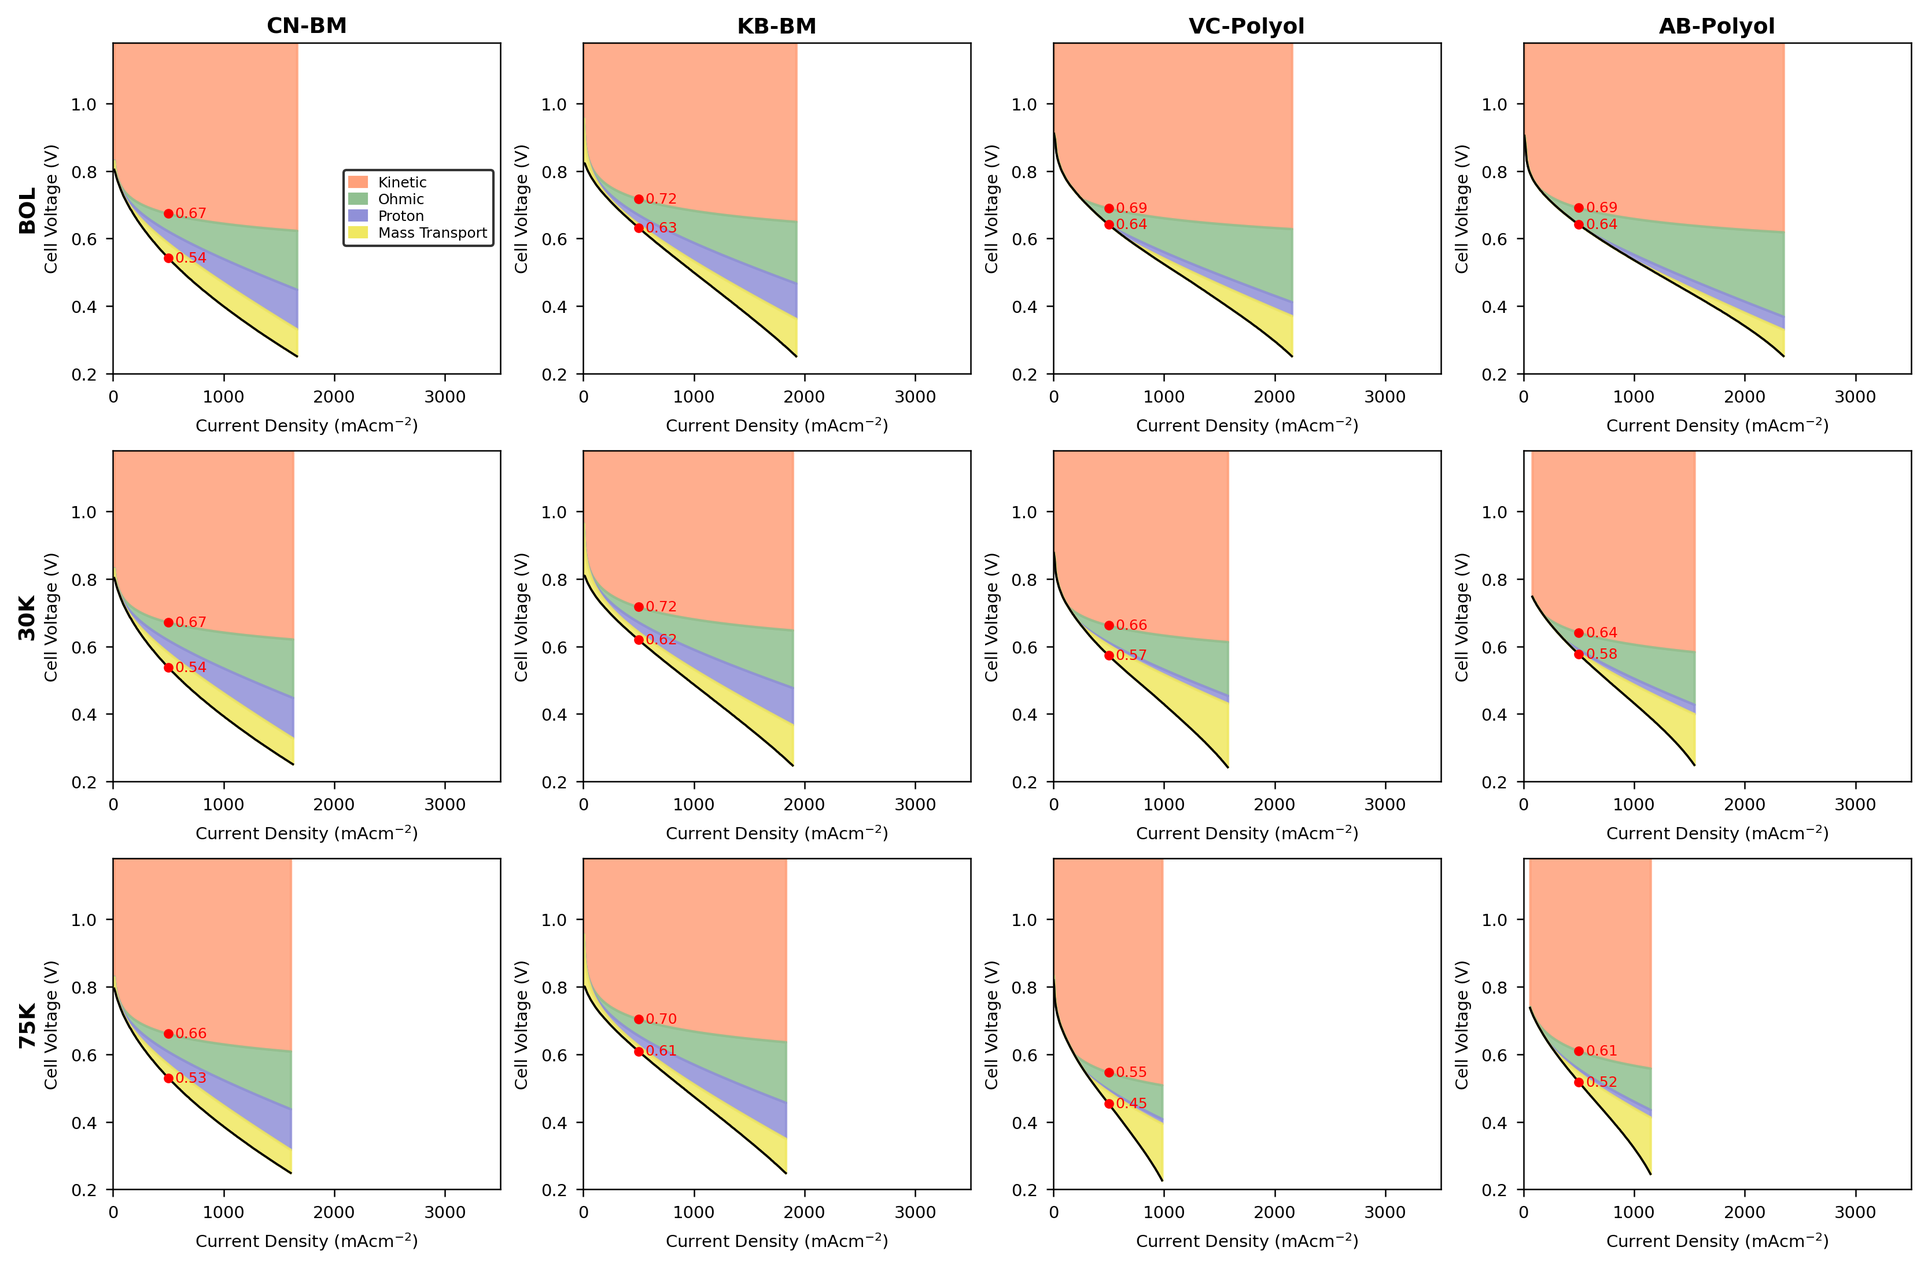
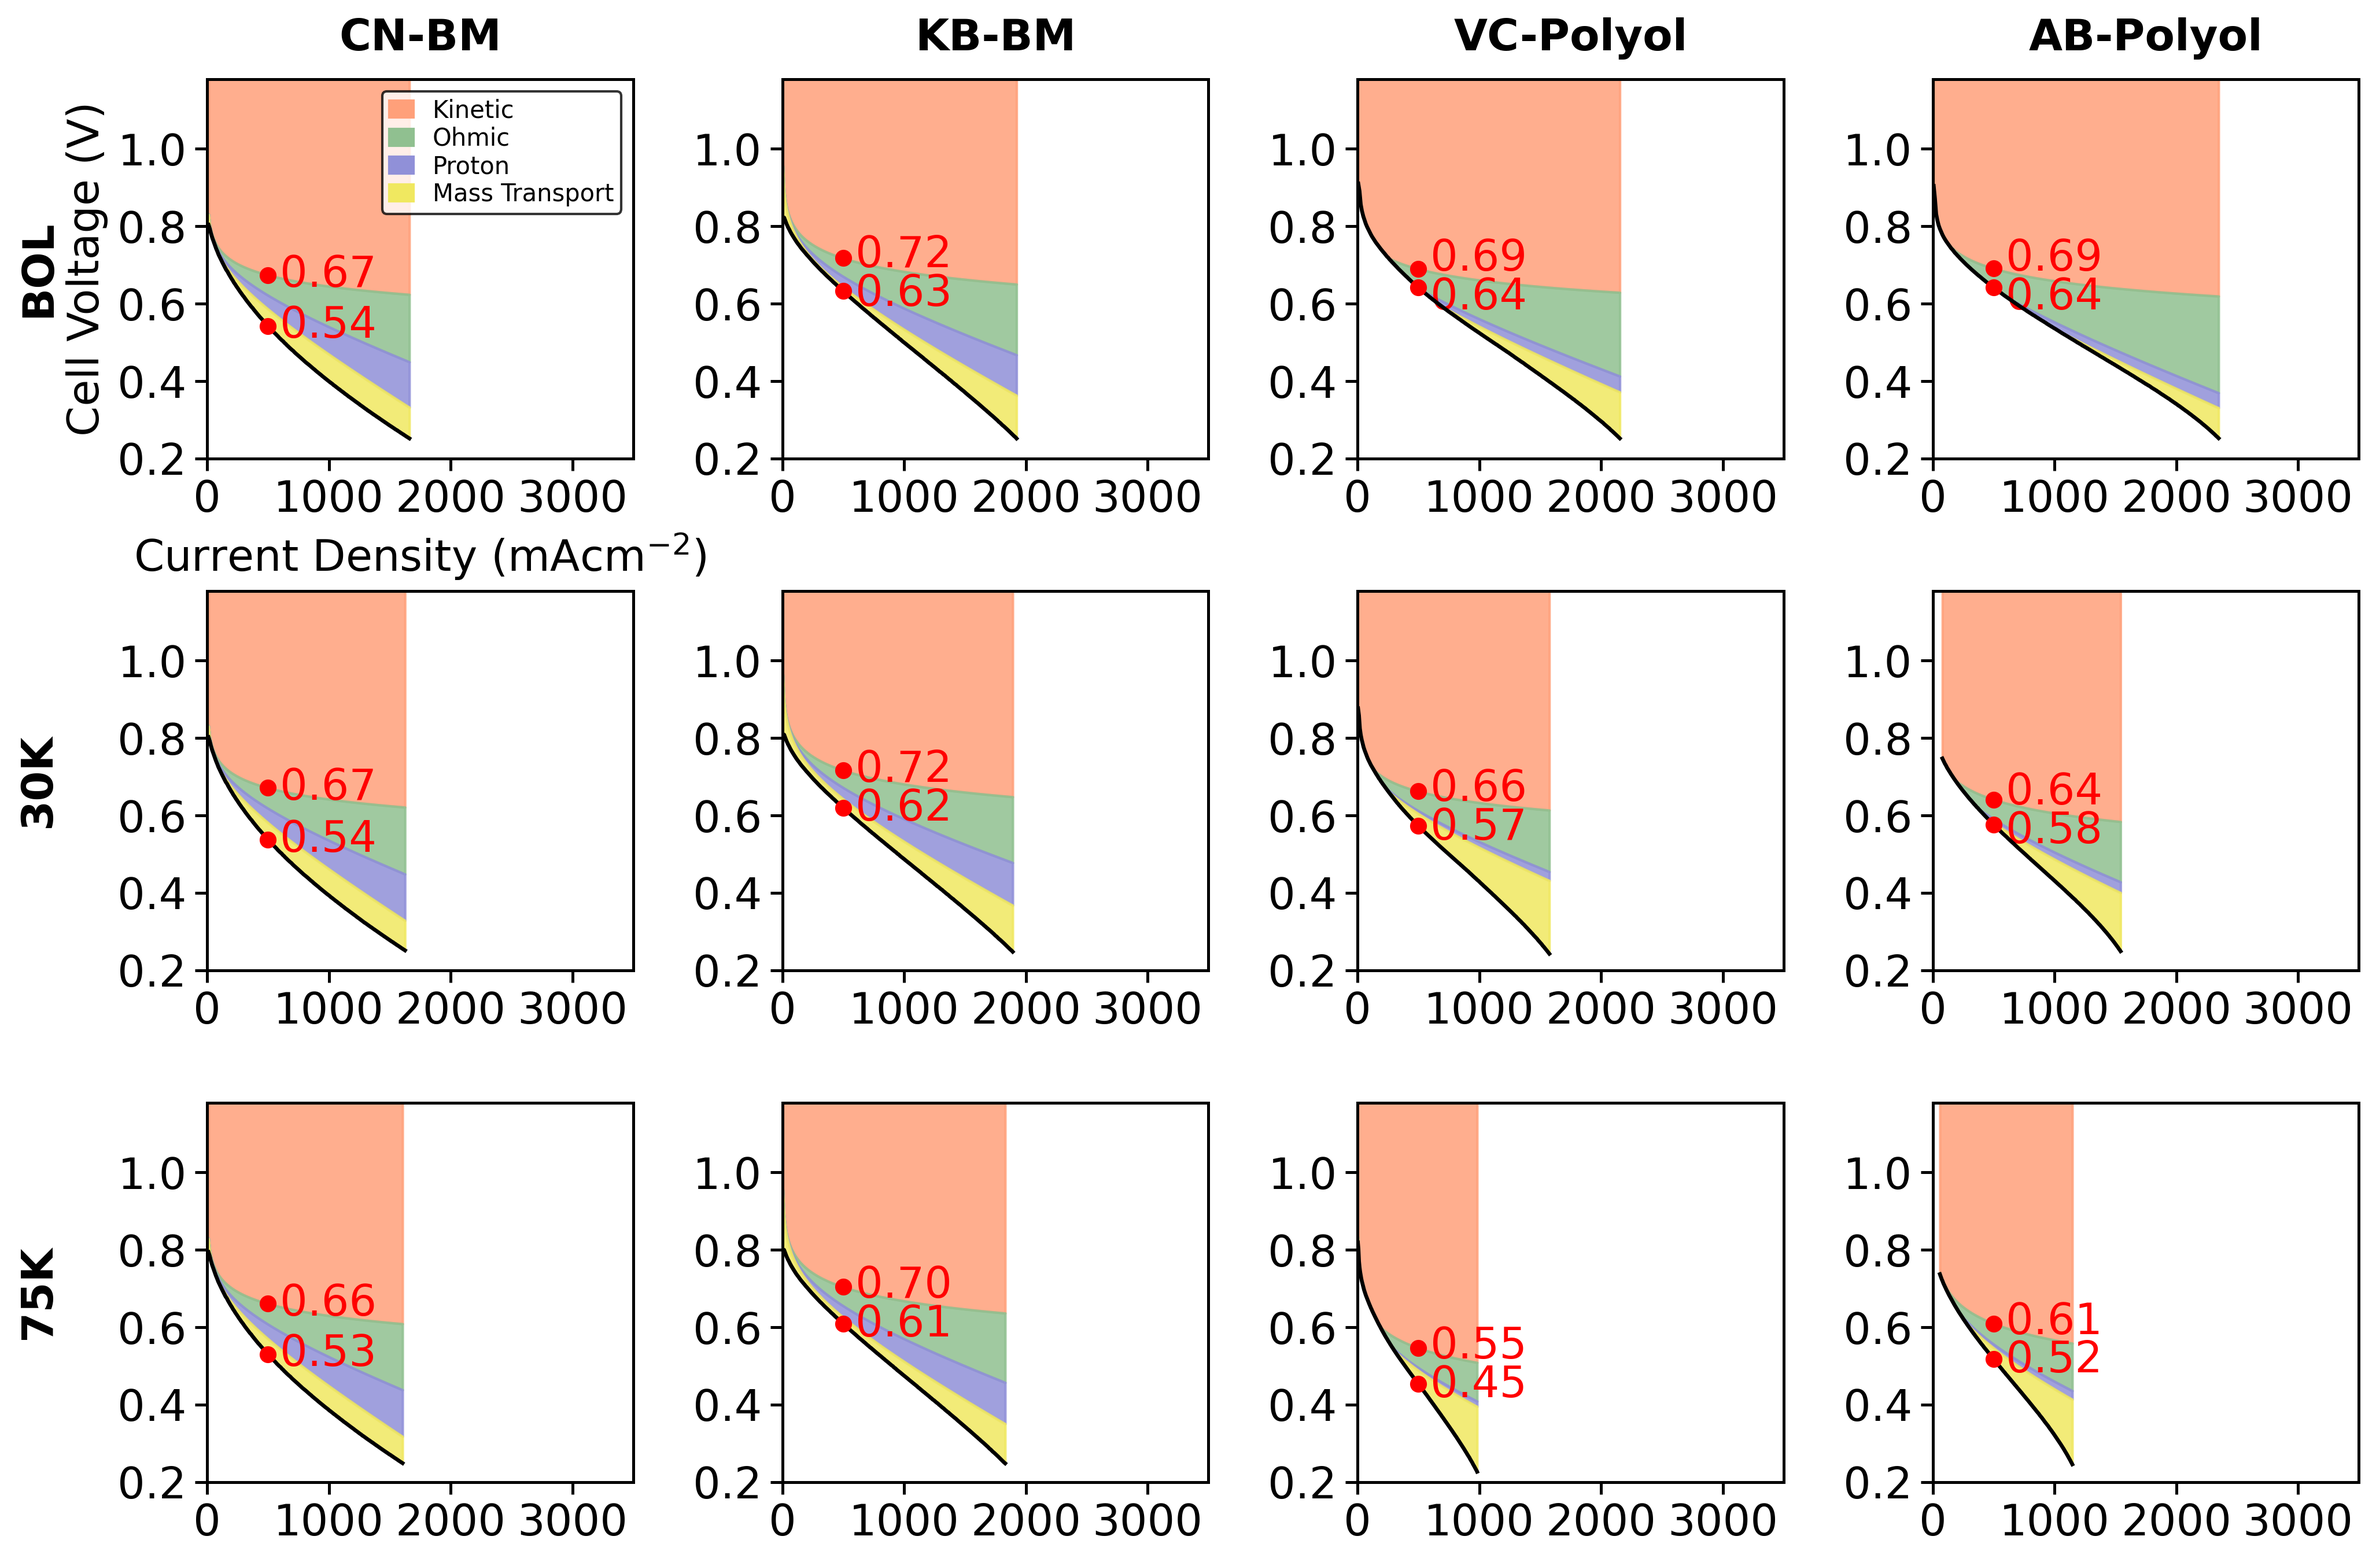
Improve overpotential decoupled plot formatting
- Font size set to 18pt with auto-scaling label offsets
- Axis titles shown on top-left subplot only; row/column labels repositioned clear of axes
- Uniform hspace/wspace spacing; consistent ymax=1.18 across all conditions
- Legend moved to upper-right; experiment condition annotation removed from grid plots
- Red value labels pushed apart when closer than 0.10V to prevent overlap

Changed region(s): [[0.0, 0.0, 0.4992, 0.9918], [0.4992, 0.0, 0.9985, 0.9918], [0.9673, 0.3719, 0.9985, 0.4029]]

diff --git a/plot_overpotential_all_fixed.py b/plot_overpotential_all_fixed.py
@@ -159,8 +159,8 @@ ANNOT = (
 
 
 def draw_panel(ax, I_mA, V, R_ohm, R_pro, erev, intercept, slope,
-               fs=7, lw=0.8, show_legend=False, show_annot=False,
-               annot_str="", ymax=1.2):
+               fs=21, lw=1.6, show_legend=False, show_annot=False,
+               annot_str="", ymax=1.2, show_xlabel=False, show_ylabel=False):
 
     # Trim fold-back: only use data up to the peak current density
     idx_peak = int(np.argmax(I_mA))
@@ -196,23 +196,36 @@ def draw_panel(ax, I_mA, V, R_ohm, R_pro, erev, intercept, slope,
     i_m      = 500.0
     v_kin_m  = float(np.interp(i_m, I_mA, V_kin_c))
     v_meas_m = float(np.interp(i_m, I_mA, V))
-    ax.plot(i_m, v_kin_m,  marker="o", ms=3, color="red", linestyle="none", zorder=10)
-    ax.plot(i_m, v_meas_m, marker="o", ms=3, color="red", linestyle="none", zorder=10)
-    ax.text(i_m + 60, v_kin_m,  f"{v_kin_m:.2f}",
-            color="red", fontsize=fs - 1, va="center", ha="left")
-    ax.text(i_m + 60, v_meas_m, f"{v_meas_m:.2f}",
-            color="red", fontsize=fs - 1, va="center", ha="left")
+    ax.plot(i_m, v_kin_m,  marker="o", ms=6, color="red", linestyle="none", zorder=10)
+    ax.plot(i_m, v_meas_m, marker="o", ms=6, color="red", linestyle="none", zorder=10)
+
+    # Separate labels if the two values are too close to read without overlap
+    min_gap = 0.10          # minimum V between label centres (~1.2× font height)
+    mid = (v_kin_m + v_meas_m) / 2
+    if abs(v_kin_m - v_meas_m) < min_gap:
+        v_kin_txt  = mid + min_gap / 2
+        v_meas_txt = mid - min_gap / 2
+    else:
+        v_kin_txt  = v_kin_m
+        v_meas_txt = v_meas_m
+
+    ax.text(i_m + 100, v_kin_txt,  f"{v_kin_m:.2f}",
+            color="red", fontsize=fs, va="center", ha="left")
+    ax.text(i_m + 100, v_meas_txt, f"{v_meas_m:.2f}",
+            color="red", fontsize=fs, va="center", ha="left")
 
     ax.set_xlim(0, 3500)
     ax.set_ylim(0.2, ymax)
     ax.tick_params(direction="out", top=False, right=False,
-                   labelsize=fs, width=0.6, length=3)
-    ax.set_xlabel(r"Current Density (mAcm$^{-2}$)", fontsize=fs)
-    ax.set_ylabel("Cell Voltage (V)", fontsize=fs)
+                   labelsize=fs, width=1.2, length=5)
+    if show_xlabel:
+        ax.set_xlabel(r"Current Density (mAcm$^{-2}$)", fontsize=fs)
+    if show_ylabel:
+        ax.set_ylabel("Cell Voltage (V)", fontsize=fs)
     ax.xaxis.set_major_locator(plt.MultipleLocator(1000))
     ax.yaxis.set_major_locator(plt.MultipleLocator(0.2))
     for spine in ax.spines.values():
-        spine.set_linewidth(0.6)
+        spine.set_linewidth(1.2)
 
     if show_legend:
         patches = [
@@ -221,14 +234,14 @@ def draw_panel(ax, I_mA, V, R_ohm, R_pro, erev, intercept, slope,
             mpatches.Patch(color=C_PRO,  label="Proton"),
             mpatches.Patch(color=C_MASS, label="Mass Transport"),
         ]
-        ax.legend(handles=patches, loc="center right", fontsize=fs - 1,
+        ax.legend(handles=patches, loc="upper right", fontsize=10,
                   frameon=True, facecolor="white", edgecolor="black",
-                  handlelength=1.2, borderpad=0.4, labelspacing=0.2)
+                  handlelength=1.0, borderpad=0.3, labelspacing=0.15)
 
     if show_annot and annot_str:
         ax.text(0.98, 0.97, annot_str,
                 transform=ax.transAxes, ha="right", va="top",
-                fontsize=fs - 1, linespacing=1.4)
+                fontsize=fs, linespacing=1.4)
 
 
 def _empty_panel(ax, fs, ymax):
@@ -244,19 +257,22 @@ def _empty_panel(ax, fs, ymax):
 def build_bol_grid(sample_list, group_name):
     ncols = len(BOL_CONDITIONS)
     nrows = len(sample_list)
-    fs    = 7
+    fs        = 18
+    label_x   = -0.022 * fs   # scales with fs: -0.462 at fs=21, -0.396 at fs=18
+    title_pad = fs * 0.67      # scales with fs: ~14 at fs=21, ~12 at fs=18
 
     fig, axes = plt.subplots(
         nrows, ncols,
-        figsize=(2.75 * ncols, 2.4 * nrows),
+        figsize=(4.0 * ncols, 3.5 * nrows),
         dpi=300,
-        constrained_layout=True,
     )
+    fig.subplots_adjust(hspace=0.35, wspace=0.35)
 
     for row_idx, samp in enumerate(sample_list):
         for col_idx, (cond_folder, dur_folder, cond_label) in enumerate(BOL_CONDITIONS):
-            ax   = axes[row_idx, col_idx]
-            ymax = 1.18 if " BP" not in cond_folder else 1.2
+            ax      = axes[row_idx, col_idx]
+            ymax    = 1.18
+            is_topleft = (row_idx == 0 and col_idx == 0)
             stem = FILE_STEMS.get((cond_folder, samp))
             fp   = find_file(cond_folder, dur_folder, stem) if stem else None
 
@@ -267,24 +283,22 @@ def build_bol_grid(sample_list, group_name):
                 I_mA, V, R_ohm, R_pro, T_K, P_H2, P_O2, intercept, slope = read_excel(fp)
                 erev = calc_erev(T_K, P_H2, P_O2)
                 draw_panel(ax, I_mA, V, R_ohm, R_pro, erev, intercept, slope,
-                           fs=fs, lw=0.9,
-                           show_legend=(row_idx == 0 and col_idx == 0),
-                           show_annot=(row_idx == 0 and col_idx == 0),
-                           annot_str=ANNOT, ymax=ymax)
+                           fs=fs, lw=1.6,
+                           show_legend=is_topleft,
+                           show_annot=False,
+                           annot_str=ANNOT, ymax=ymax,
+                           show_xlabel=is_topleft, show_ylabel=is_topleft)
             except Exception as e:
                 print(f"  ERROR {samp}/{cond_folder}: {e}")
                 ax.text(0.5, 0.5, "error", transform=ax.transAxes,
                         ha="center", va="center", fontsize=fs)
 
             if row_idx == 0:
-                ax.set_title(cond_label, fontsize=fs + 2, fontweight="bold", pad=4)
+                ax.set_title(cond_label, fontsize=fs, fontweight="bold", pad=title_pad)
             if col_idx == 0:
-                ax.set_ylabel("Cell Voltage (V)", fontsize=fs, labelpad=4)
-                ax.text(-0.22, 0.5, LABELS[samp],
-                        transform=ax.transAxes, fontsize=fs + 2, fontweight="bold",
+                ax.text(label_x, 0.5, LABELS[samp],
+                        transform=ax.transAxes, fontsize=fs, fontweight="bold",
                         ha="center", va="center", rotation=90, clip_on=False)
-            else:
-                ax.set_ylabel("Cell Voltage (V)", fontsize=fs)
 
     out = os.path.join(OUT_DIR, f"Overpot_grid_{group_name}.png")
     fig.savefig(out, dpi=300, bbox_inches="tight")
@@ -298,19 +312,22 @@ def build_bol_grid(sample_list, group_name):
 def build_dur_grid(sample_list, cond_folder, safe_name, is_15bp, group_name):
     nrows = len(DURS)
     ncols = len(sample_list)
-    fs    = 7
-    ymax  = 1.2 if is_15bp else 1.18
+    fs        = 18
+    ymax      = 1.18
+    label_x   = -0.022 * fs
+    title_pad = fs * 0.67
 
     fig, axes = plt.subplots(
         nrows, ncols,
-        figsize=(2.75 * ncols, 2.4 * nrows),
+        figsize=(4.0 * ncols, 3.5 * nrows),
         dpi=300,
-        constrained_layout=True,
     )
+    fig.subplots_adjust(hspace=0.35, wspace=0.35)
 
     for row_idx, (dur_label, dur_folder) in enumerate(DURS):
         for col_idx, samp in enumerate(sample_list):
-            ax   = axes[row_idx, col_idx]
+            ax         = axes[row_idx, col_idx]
+            is_topleft = (row_idx == 0 and col_idx == 0)
             stem = FILE_STEMS.get((cond_folder, samp))
             fp   = find_file(cond_folder, dur_folder, stem) if stem else None
 
@@ -321,23 +338,21 @@ def build_dur_grid(sample_list, cond_folder, safe_name, is_15bp, group_name):
                     I_mA, V, R_ohm, R_pro, T_K, P_H2, P_O2, intercept, slope = read_excel(fp)
                     erev = calc_erev(T_K, P_H2, P_O2)
                     draw_panel(ax, I_mA, V, R_ohm, R_pro, erev, intercept, slope,
-                               fs=fs, lw=0.9,
-                               show_legend=(row_idx == 0 and col_idx == 0),
-                               ymax=ymax)
+                               fs=fs, lw=1.6,
+                               show_legend=is_topleft,
+                               ymax=ymax,
+                               show_xlabel=is_topleft, show_ylabel=is_topleft)
                 except Exception as e:
                     print(f"  ERROR {samp}/{dur_label}/{cond_folder}: {e}")
                     ax.text(0.5, 0.5, "error", transform=ax.transAxes,
                             ha="center", va="center", fontsize=fs)
 
             if row_idx == 0:
-                ax.set_title(LABELS[samp], fontsize=fs + 2, fontweight="bold", pad=4)
+                ax.set_title(LABELS[samp], fontsize=fs, fontweight="bold", pad=title_pad)
             if col_idx == 0:
-                ax.set_ylabel("Cell Voltage (V)", fontsize=fs, labelpad=4)
-                ax.text(-0.22, 0.5, dur_label,
-                        transform=ax.transAxes, fontsize=fs + 2, fontweight="bold",
+                ax.text(label_x, 0.5, dur_label,
+                        transform=ax.transAxes, fontsize=fs, fontweight="bold",
                         ha="center", va="center", rotation=90, clip_on=False)
-            else:
-                ax.set_ylabel("Cell Voltage (V)", fontsize=fs)
 
     out = os.path.join(OUT_DIR, f"Overpot_dur_{safe_name}_{group_name}.png")
     fig.savefig(out, dpi=300, bbox_inches="tight")
